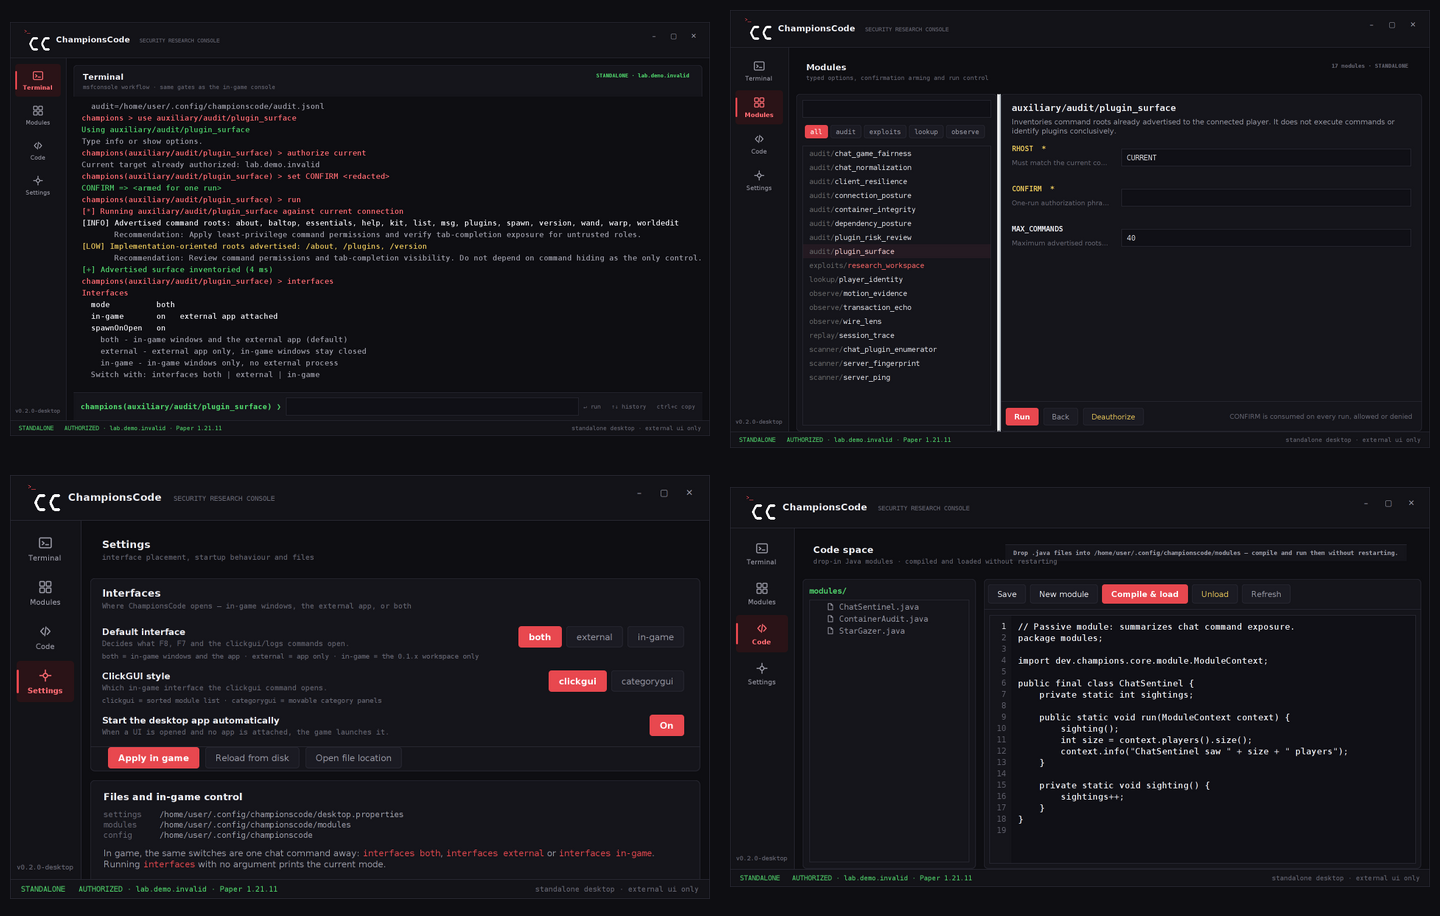
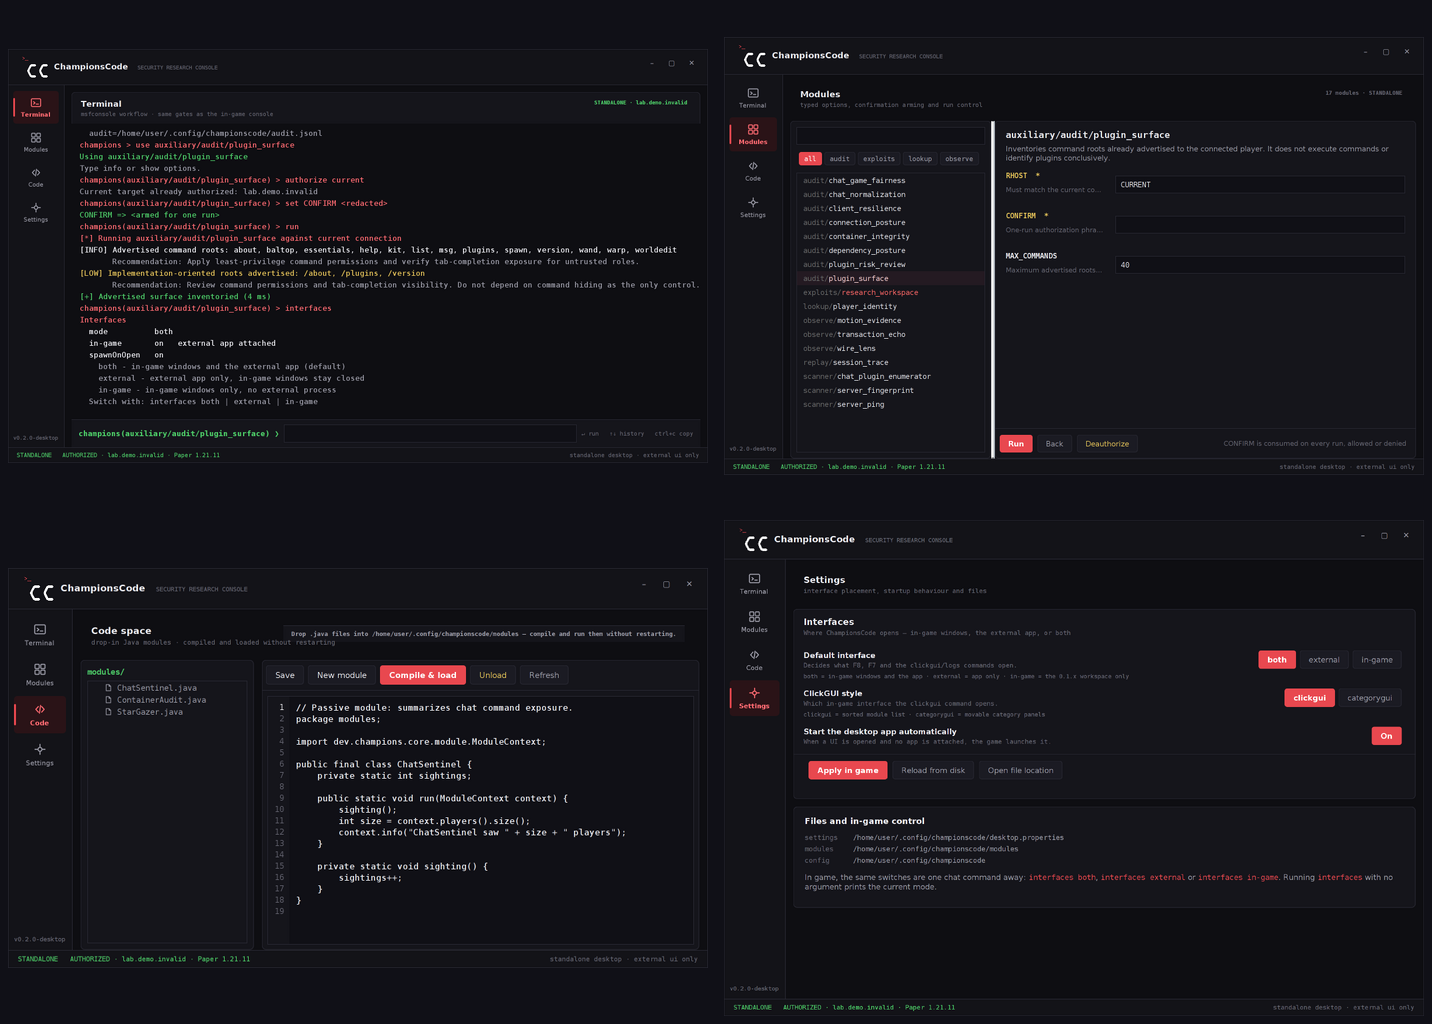
Release 0.2.0-beta.2
Fixes the Settings page: the interface card reported an unbounded maximum
height, so the vertical stack gave it every spare pixel and the rows sat
stranded above a footer pinned to the bottom edge. Cards are now held at their
content height and the slack collects below them.

The footer's action row was 4 px under the rows; it now has 10 px above and
12 px below. The status note moved under the buttons instead of beside them,
because the messages after a click were wider than the space left on that line
and were cut off mid-sentence.

A window size saved by a build with the old 880x540 minimum is now clamped to
1040x720 instead of restoring a window the Settings pane does not fit in.

--self-test grows a headless layout check: it lays the panel out at two window
heights and fails if the interface card is taller than its content. Reverting
the fix makes it fail with 57px and 257px of slack, so it does catch this class
of bug rather than just passing.

diff --git a/src/main/java/dev/champions/desktop/SettingsPanel.java b/src/main/java/dev/champions/desktop/SettingsPanel.java
@@ -35,6 +35,8 @@ public final class SettingsPanel extends JPanel {
 	/** Switch rows: one fixed row per setting, each as wide as the card. */
 	private final JPanel rows = new JPanel();
 	private final JLabel note = new JLabel(" ");
+	/** The interface card, kept for the headless layout check in {@link SelfTest}. */
+	private JPanel interfaceCard;
 
 	public SettingsPanel(ConsolePort port, Path configDirectory) {
 		super(new BorderLayout());
@@ -53,26 +55,34 @@ public final class SettingsPanel extends JPanel {
 
 		note.setFont(Theme.mono(10));
 		note.setForeground(Theme.FAINT);
-		note.setBorder(Theme.padding(4, 12, 10, 16));
 
+		// The note sits under the buttons, not beside them: the messages that
+		// follow a click ("Sent 'interfaces reload' to the game ...") are longer
+		// than the space a WEST/CENTRE split leaves, so they used to be clipped
+		// mid-sentence at the right edge of the card.
 		JPanel footer = new JPanel(new BorderLayout());
 		footer.setOpaque(false);
 		footer.setBorder(BorderFactory.createMatteBorder(1, 0, 0, 0, Theme.BORDER));
-		footer.add(actions(), BorderLayout.WEST);
-		footer.add(note, BorderLayout.CENTER);
+		footer.add(actions(), BorderLayout.NORTH);
+		JPanel noteRow = new JPanel(new BorderLayout());
+		noteRow.setOpaque(false);
+		noteRow.setBorder(Theme.padding(6, 16, 12, 16));
+		noteRow.add(note, BorderLayout.CENTER);
+		footer.add(noteRow, BorderLayout.CENTER);
 		card.add(footer, BorderLayout.SOUTH);
+		this.interfaceCard = card;
 
 		// Both cards size to their content and stack from the top, so the page
 		// does not turn into one tall box of empty space on a large screen.
+		// They must be height-limited: a BorderLayout card reports an unbounded
+		// maximum height, so BoxLayout would hand it every spare pixel and the
+		// rows would sit stranded above a footer pinned to the bottom edge.
 		JPanel column = new JPanel();
 		column.setLayout(new BoxLayout(column, BoxLayout.Y_AXIS));
 		column.setOpaque(false);
-		card.setAlignmentX(Component.LEFT_ALIGNMENT);
-		column.add(card);
+		column.add(fixedHeight(card));
 		column.add(Box.createVerticalStrut(12));
-		JPanel files = filesCard(configDirectory);
-		files.setAlignmentX(Component.LEFT_ALIGNMENT);
-		column.add(files);
+		column.add(fixedHeight(filesCard(configDirectory)));
 		column.add(Box.createVerticalGlue());
 
 		JPanel stacked = new JPanel(new BorderLayout(0, 12));
@@ -84,6 +94,11 @@ public final class SettingsPanel extends JPanel {
 		refresh();
 	}
 
+	/** Test seam: the card holding the interface rows, footer included. */
+	JPanel interfaceCard() {
+		return interfaceCard;
+	}
+
 	private void refresh() {
 		Properties properties = read();
 		String ui = properties.getProperty("ui", "both").strip().toLowerCase(java.util.Locale.ROOT);
@@ -91,6 +106,7 @@ public final class SettingsPanel extends JPanel {
 		String clickGui = properties.getProperty("clickgui", "clickgui").strip().toLowerCase(java.util.Locale.ROOT);
 
 		rows.removeAll();
+		note.setText(" ");
 		addRow(segmented("Default interface",
 			"Decides what F8, F7 and the clickgui/logs commands open.",
 			UI_MODES, ui, value -> write("ui", value)));
@@ -137,10 +153,27 @@ public final class SettingsPanel extends JPanel {
 		body.add(chat);
 
 		card.add(body, BorderLayout.CENTER);
-		JPanel holder = new JPanel(new BorderLayout());
+		return card;
+	}
+
+	/**
+	 * Holds a card at the height its content asks for.
+	 *
+	 * <p>{@code BorderLayout} reports {@code Integer.MAX_VALUE} as the maximum
+	 * height, so inside a vertical {@code BoxLayout} a card grows until the
+	 * layout runs out of space — which is what pushed the interface rows to the
+	 * top of a tall card. Pinning the maximum to the preferred height leaves the
+	 * slack to the glue at the bottom of the column instead.</p>
+	 */
+	private static JPanel fixedHeight(JPanel card) {
+		JPanel holder = new JPanel(new BorderLayout()) {
+			@Override
+			public Dimension getMaximumSize() {
+				return new Dimension(Integer.MAX_VALUE, getPreferredSize().height);
+			}
+		};
 		holder.setOpaque(false);
-		holder.setBorder(Theme.padding(0, 0, 0, 0));
-		holder.setMaximumSize(new Dimension(Integer.MAX_VALUE, 230));
+		holder.setAlignmentX(Component.LEFT_ALIGNMENT);
 		holder.add(card, BorderLayout.CENTER);
 		return holder;
 	}
@@ -206,7 +239,7 @@ public final class SettingsPanel extends JPanel {
 	private JPanel actions() {
 		JPanel row = new JPanel(new FlowLayout(FlowLayout.LEFT, 8, 0));
 		row.setOpaque(false);
-		row.setBorder(Theme.padding(0, 16, 4, 16));
+		row.setBorder(Theme.padding(10, 16, 0, 16));
 		row.setAlignmentX(Component.LEFT_ALIGNMENT);
 		row.add(Theme.primary("Apply in game", event -> applyInGame()));
 		row.add(Theme.button("Reload from disk", Theme.DIM, event -> {

diff --git a/src/main/java/dev/champions/desktop/SelfTest.java b/src/main/java/dev/champions/desktop/SelfTest.java
@@ -48,6 +48,7 @@ public final class SelfTest {
 			capabilityGate(config.resolve("gated"));
 			dropInCompiler(config.resolve("codespace"));
 			interfacePreference(config.resolve("interfaces"));
+			settingsLayout(config.resolve("layout"));
 			jsonEdgeCases();
 		} finally {
 			deleteTree(config);
@@ -258,6 +259,38 @@ public final class SelfTest {
 		check("drop-in compiler: module is selectable", console.selectModuleFromUi("auxiliary/local/self_test"));
 		StandaloneRuntime.Result unload = runtime.unload("self-test cleanup");
 		check("drop-in compiler: unload removes it", unload.moduleIds().isEmpty());
+	}
+
+	/**
+	 * Guards the Settings pane against the layout bug where the interface card
+	 * reported an unbounded maximum height: inside a vertical BoxLayout it then
+	 * swallowed every spare pixel and the rows hung stranded above a footer
+	 * pinned to the bottom edge. The card must stay as tall as its content at
+	 * any window height, and the whole page must fit the smallest window.
+	 */
+	private static void settingsLayout(Path config) {
+		SettingsPanel panel = new SettingsPanel(null, config);
+		for (int height : new int[] { 600, 1000 }) {
+			panel.setSize(1040, height);
+			layOut(panel);
+			var card = panel.interfaceCard();
+			int slack = card.getHeight() - card.getPreferredSize().height;
+			check("interface card is not stretched at " + height + "px (" + slack + "px slack)",
+				Math.abs(slack) <= 1);
+		}
+		panel.setSize(1040, 600);
+		layOut(panel);
+		int needed = panel.getPreferredSize().height;
+		check("settings page fits the minimum window (" + needed + "px of 634px)",
+			needed <= 634);
+	}
+
+	/** Lays out a component tree that was never realised on screen. */
+	private static void layOut(java.awt.Component component) {
+		component.doLayout();
+		if (component instanceof java.awt.Container container) {
+			for (java.awt.Component child : container.getComponents()) layOut(child);
+		}
 	}
 
 	private static void jsonEdgeCases() {

diff --git a/src/main/java/dev/champions/desktop/DesktopMain.java b/src/main/java/dev/champions/desktop/DesktopMain.java
@@ -178,7 +178,12 @@ public final class DesktopMain {
 			java.awt.Rectangle saved = new java.awt.Rectangle(
 				Integer.parseInt(parts[0].trim()), Integer.parseInt(parts[1].trim()),
 				Integer.parseInt(parts[2].trim()), Integer.parseInt(parts[3].trim()));
-			return screen.intersects(saved) ? saved : computed;
+			if (!screen.intersects(saved)) return computed;
+			// A geometry saved under an older, smaller minimum would otherwise
+			// restore a window the Settings pane does not fit in.
+			saved.width = Math.max(saved.width, 1040);
+			saved.height = Math.max(saved.height, 720);
+			return saved;
 		} catch (NumberFormatException invalid) {
 			return computed;
 		}

diff --git a/CHANGELOG.md b/CHANGELOG.md
@@ -4,6 +4,23 @@
 
 Nothing yet.
 
+## 0.2.0-beta.2 - 2026-10-26
+
+### Fixed
+- **The Settings page no longer leaves a gap above its footer.** Both cards
+  reported an unbounded maximum height, so the vertical stack handed the
+  interface card every spare pixel: the rows sat at the top and the action
+  footer was pinned to the bottom of a tall empty box. Cards are now held at
+  their content height and the slack collects below them. A headless check in
+  `--self-test` fails the build if a card ever stretches again.
+- **Settings footer spacing and clipped messages.** The action row sat 4 px
+  under the rows; it now has 10 px above and 12 px below. The status note moved
+  under the buttons instead of beside them — the messages after a click were
+  wider than the space left on that line and were cut off mid-sentence.
+- **A saved window size can no longer restore below the minimum.** A geometry
+  remembered from a build with the old 880x540 limit is clamped to the current
+  1040x720 rather than reopening a window the Settings pane does not fit in.
+
 ## 0.2.0-beta.1 - 2026-10-26
 
 ### Added
